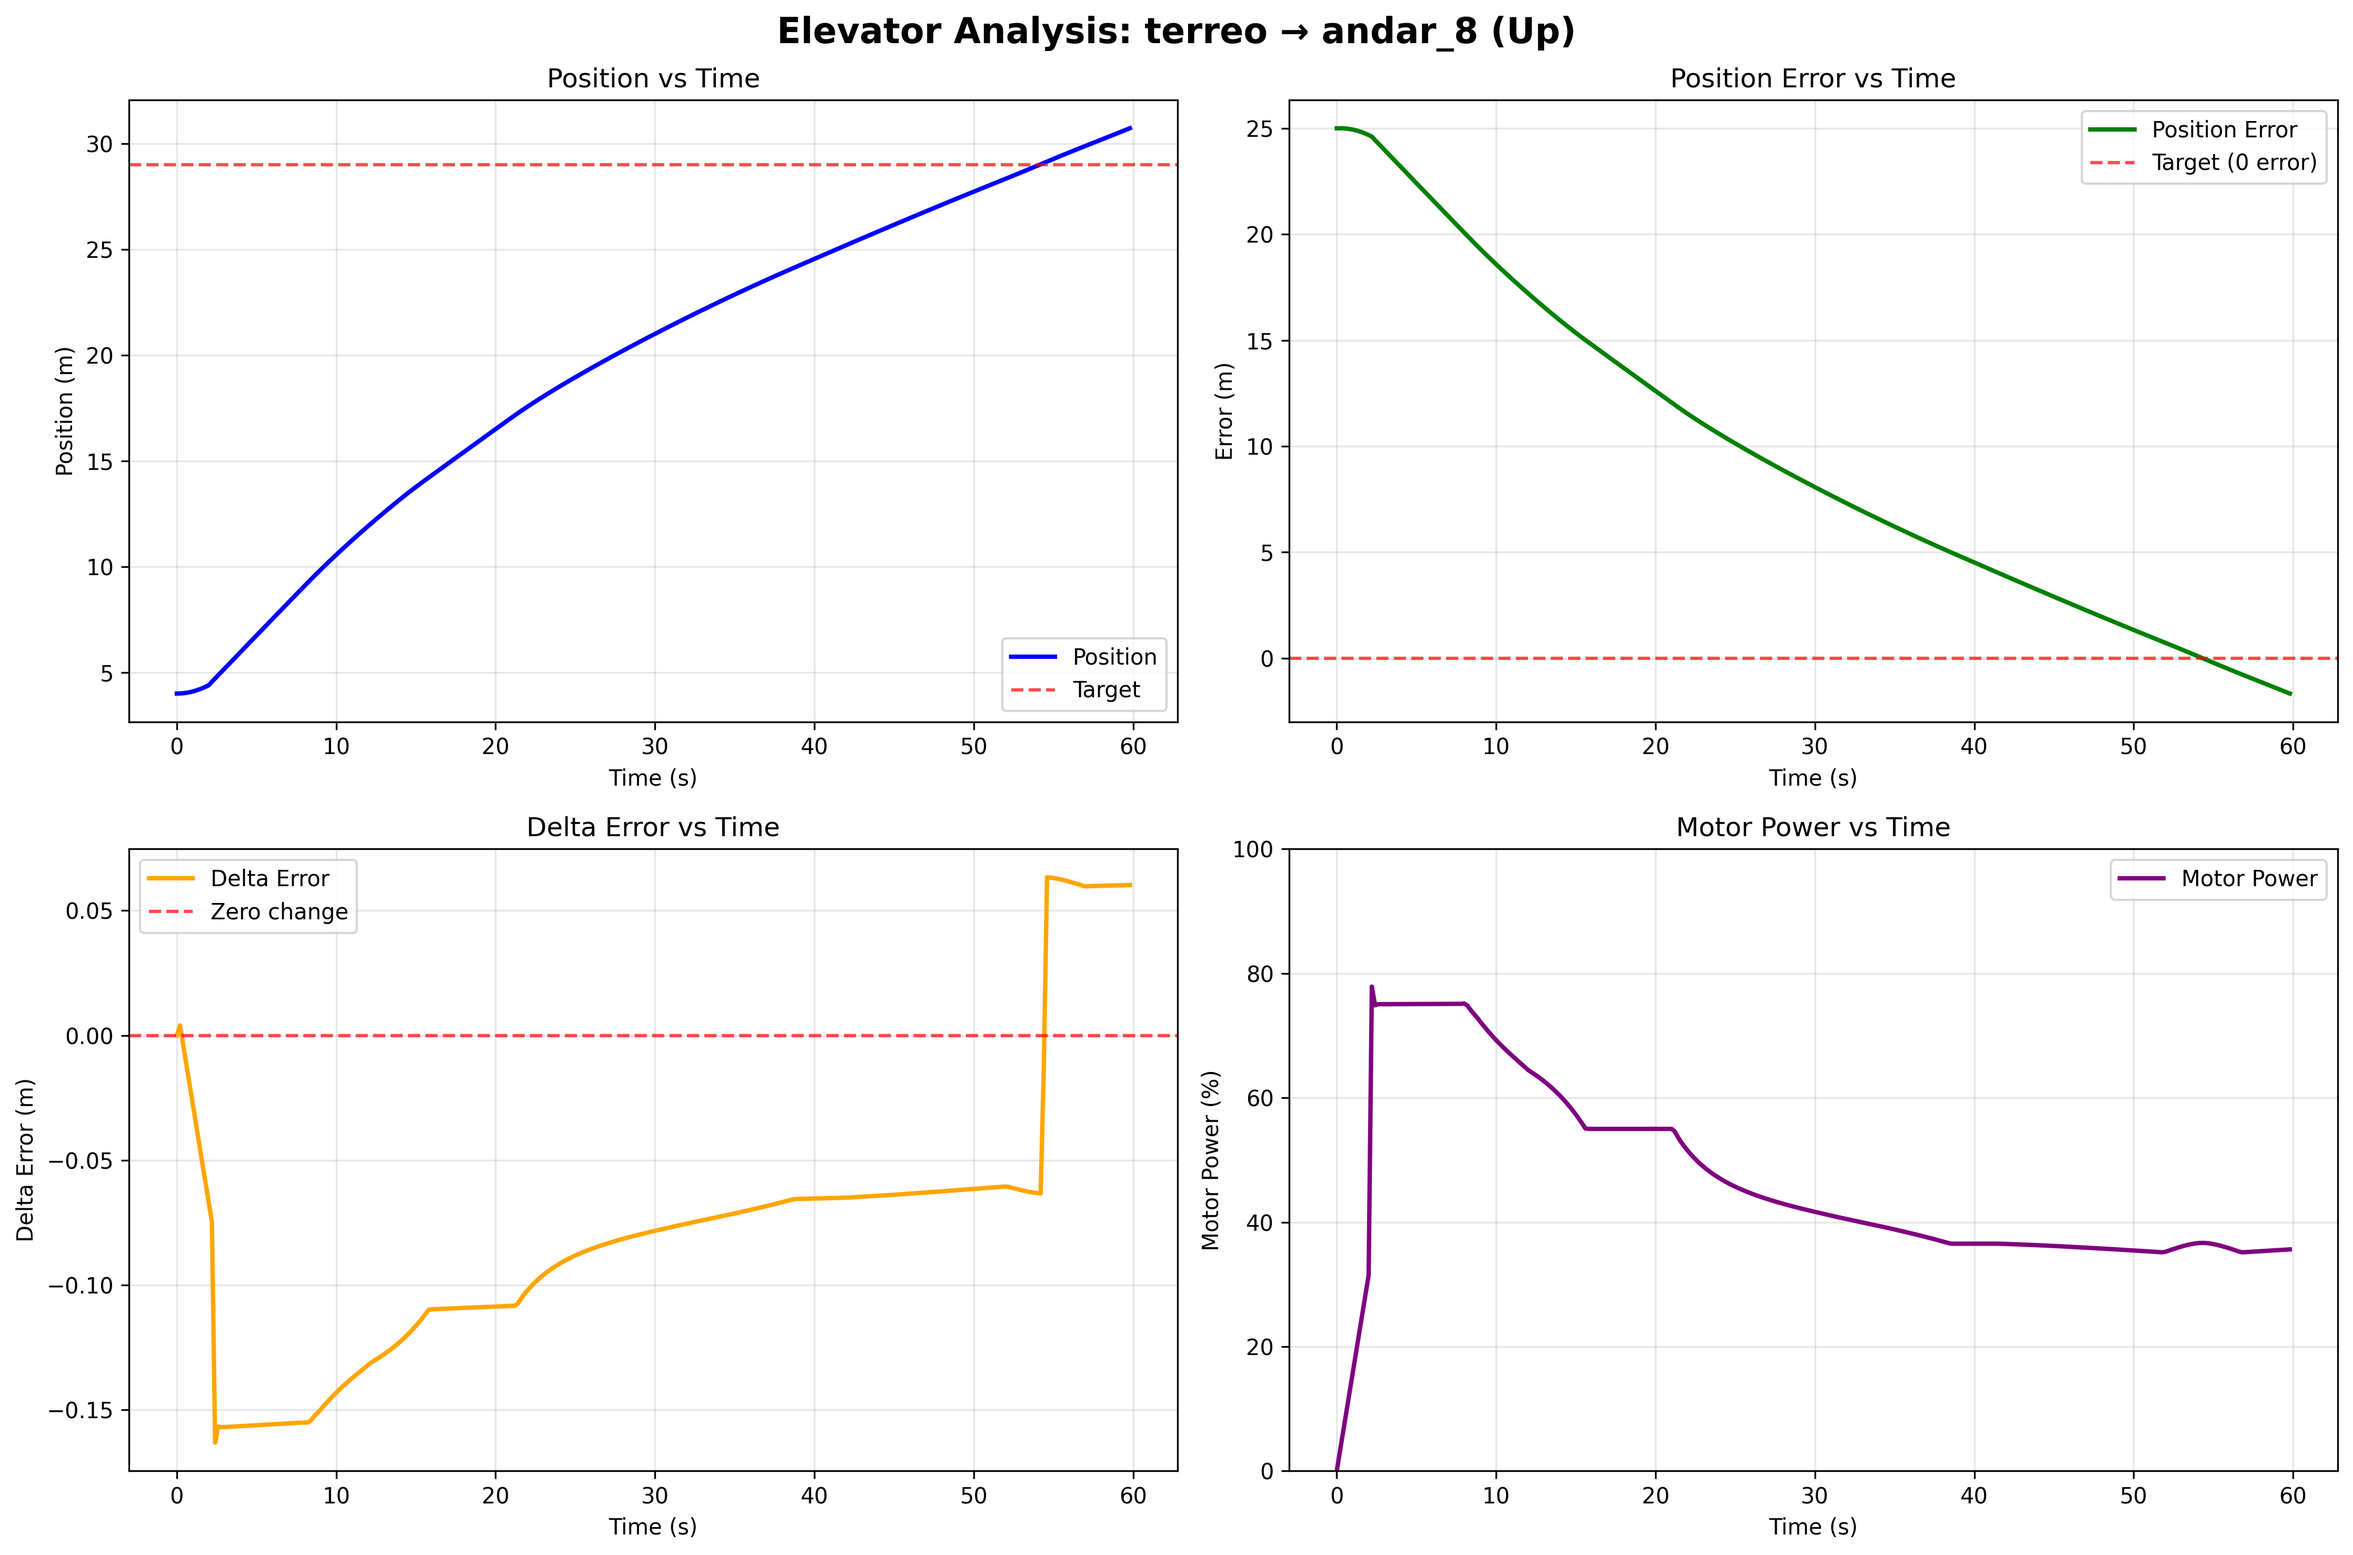
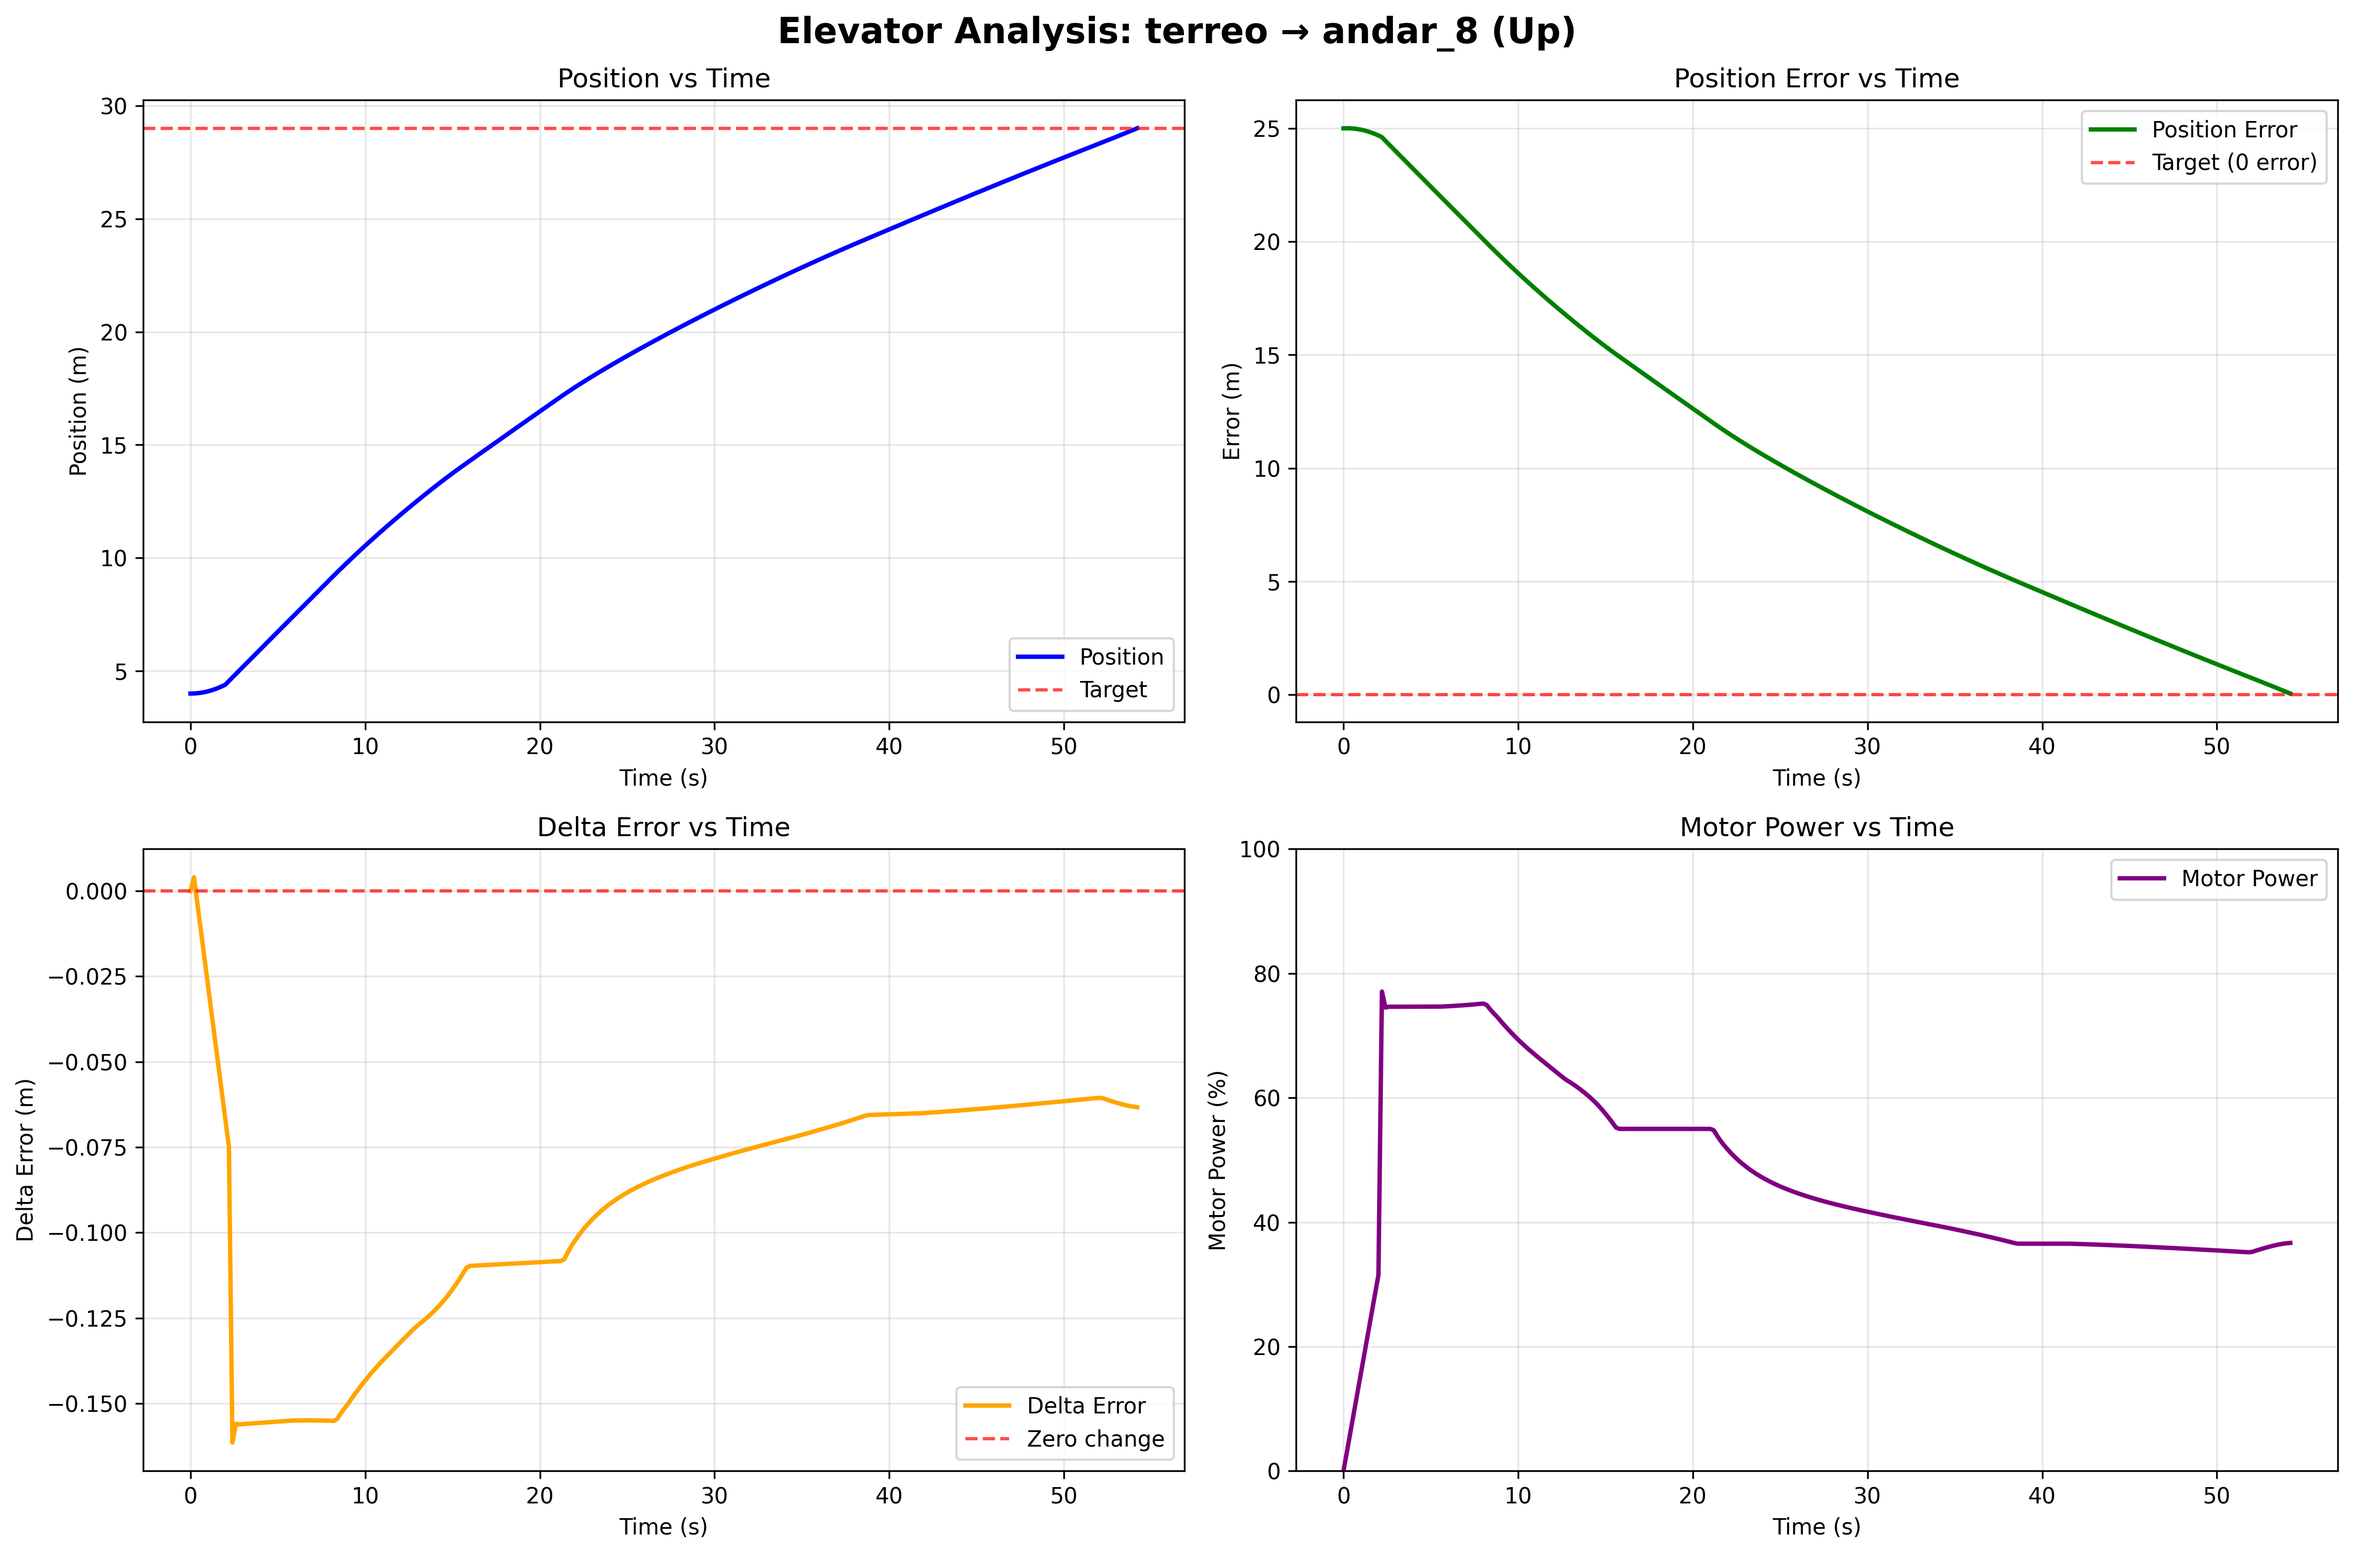
mudando pace

diff --git a/elevator_fuzzy_controller.py b/elevator_fuzzy_controller.py
@@ -69,10 +69,10 @@ class ElevatorFuzzyController:
         """Setup the fuzzy control system with membership functions and rules"""
           # Define input and output variables
         # Error range: considering maximum building height displacement (0 to 30m with extra margin)
-        self.error = ctrl.Antecedent(np.arange(0, 31, 0.25), 'error')
+        self.error = ctrl.Antecedent(np.arange(0, 31, 0.20), 'error')
         
         # Delta error range: rate of change of error
-        self.delta_error = ctrl.Antecedent(np.arange(-10, 11, 0.25), 'delta_error')
+        self.delta_error = ctrl.Antecedent(np.arange(-10, 11, 0.20), 'delta_error')
         
         # Motor power output: 0-100%
         self.motor_power = ctrl.Consequent(np.arange(0, 101, 1), 'motor_power')
